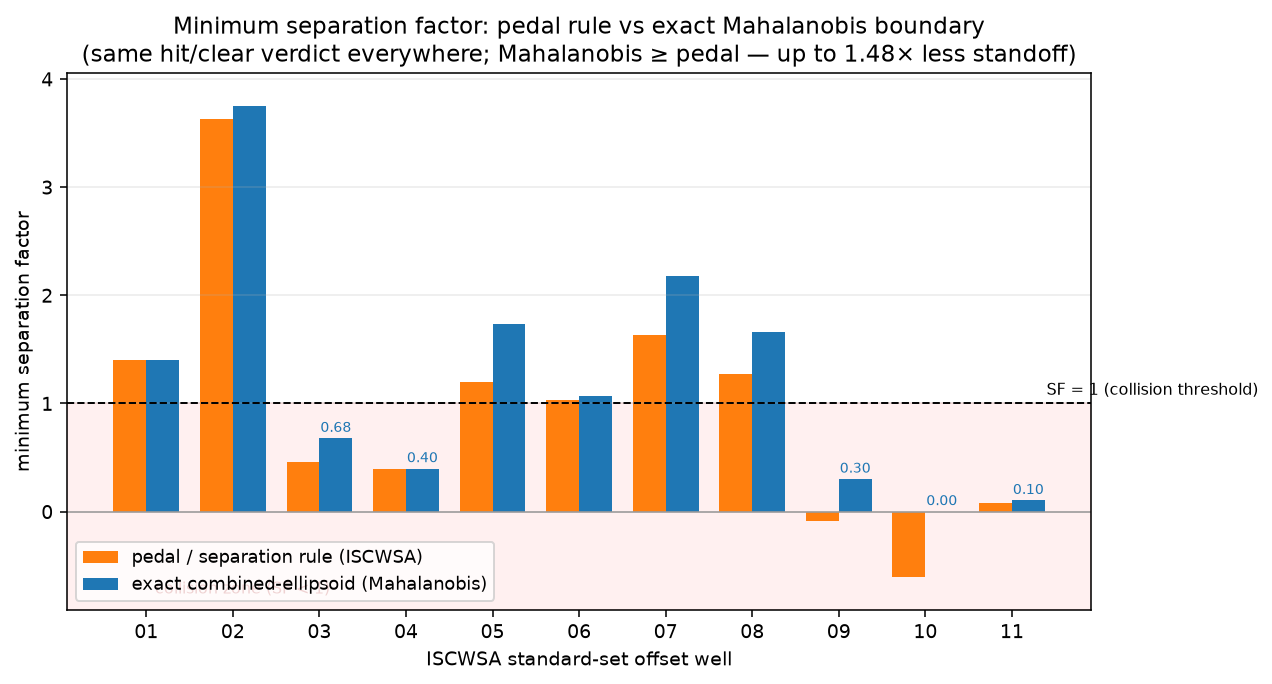
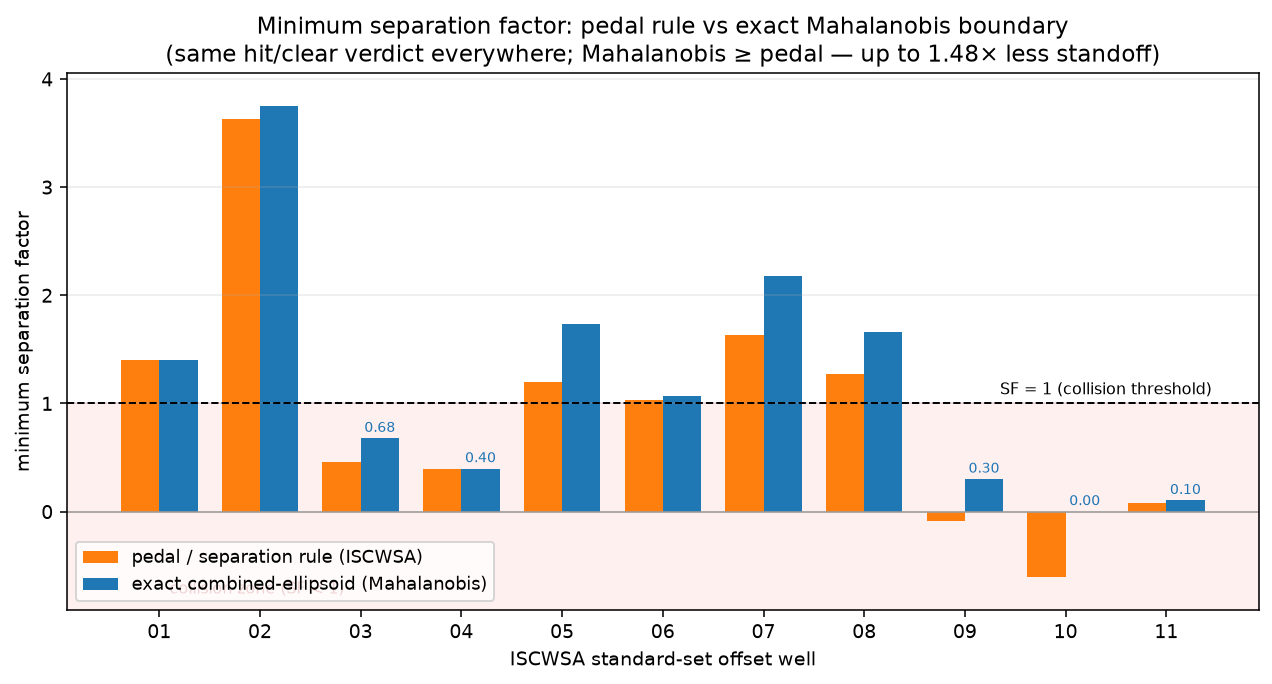
docs(papers): fig2 — SF=1 label inside the axes (was straddling the edge)
Claude-Session: https://claude.ai/code/session_01LmC8qDNLexfqYjEP5tibPn

diff --git a/papers/generate_anti_collision_figures.py b/papers/generate_anti_collision_figures.py
@@ -81,7 +81,9 @@ def fig2():
     ax.axhspan(ymin, 1.0, color="red", alpha=0.06)            # collision zone SF<1
     ax.bar(x - w / 2, ped, w, label="pedal / separation rule (ISCWSA)", color="C1")
     ax.bar(x + w / 2, mah, w, label="exact combined-ellipsoid (Mahalanobis)", color="C0")
-    ax.axhline(1.0, color="k", lw=1, ls="--"); ax.text(len(names) - 0.6, 1.08, "SF = 1 (collision threshold)", fontsize=8)
+    ax.axhline(1.0, color="k", lw=1, ls="--")
+    ax.text(len(names) - 0.55, 1.05, "SF = 1 (collision threshold)", fontsize=8,
+            ha="right", va="bottom")
     ax.axhline(0.0, color="0.6", lw=0.8)
     ax.text(0.1, ymin + 0.15, "collision zone (SF < 1)", fontsize=8, color="firebrick")
     # label maha values for the collision wells (otherwise SF≈0 bars vanish)
